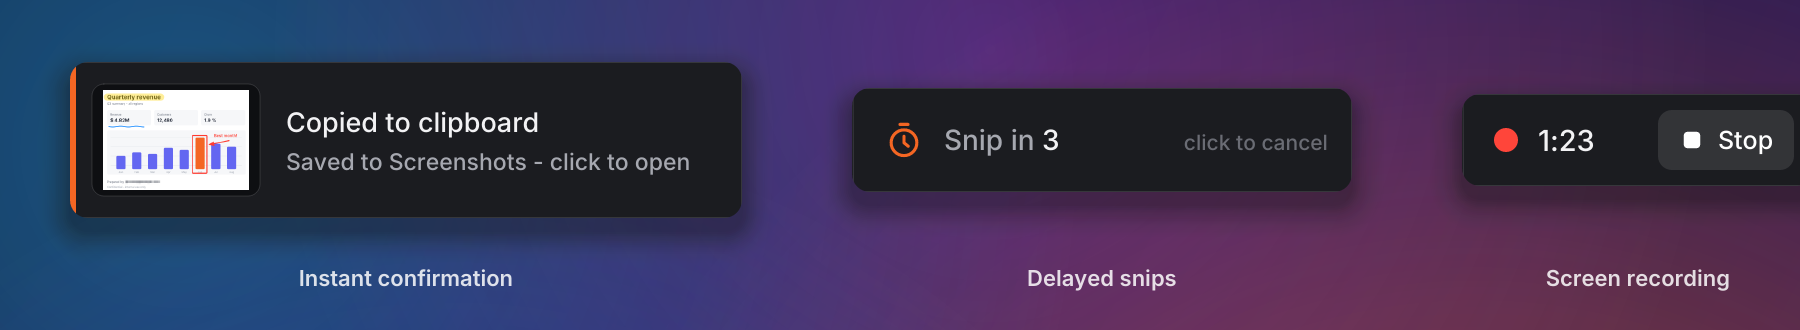
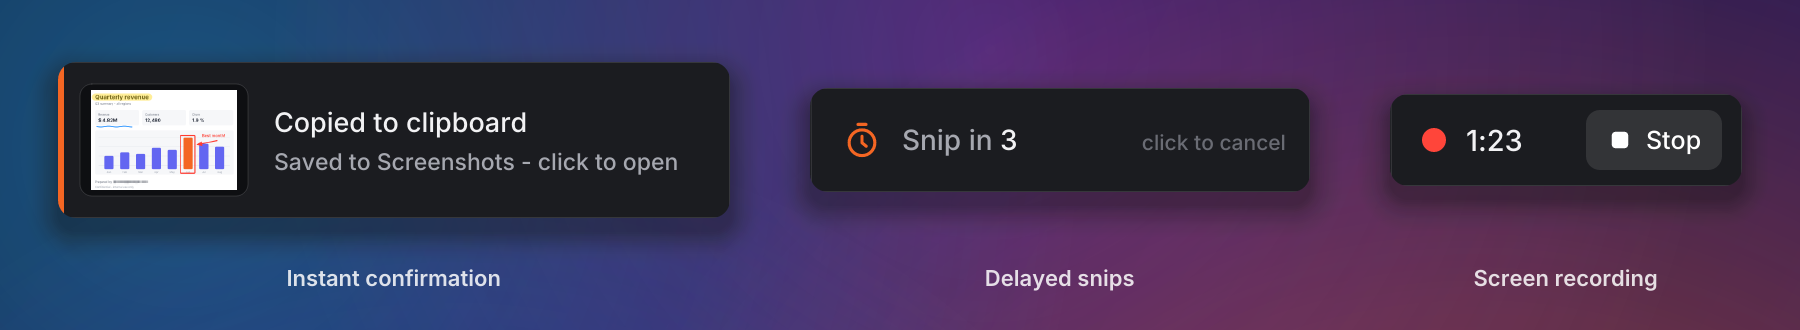
Fix shutdown after a cancelled save dialog; keep captures exact across resizes
- Deliver finished snips from about_to_wait instead of from inside the
  window-event callback. Opening the native save dialog there left the
  event loop unable to exit, so a one-shot `krab` stayed alive after the
  dialog was cancelled.
- Keep the original capture when the surface size differs from it, and
  resample from that instead of from the previous resample, so a window
  that is briefly the wrong size can no longer degrade the screenshot.
- Take the pointer position from the button message itself on Windows.
- Build Linux on Ubuntu 24.04: the PipeWire headers on 22.04 are too old
  for the bindings used by the capture backend.
- Centre the status row in the generated README image.

diff --git a/src/overlay/render.rs b/src/overlay/render.rs
@@ -34,32 +34,47 @@ fn mix(a: u32, b: u32, t: u32) -> u32 {
 
 impl Overlay {
     /// Adapt to a surface whose size differs from the captured image (rare:
-    /// fractional scaling on some compositors).
+    /// fractional scaling on some compositors, or a window that is still
+    /// settling into full screen). The capture itself is never degraded: the
+    /// original pixels are kept and every size is resampled from them, so the
+    /// overlay is pixel-exact again as soon as the sizes match.
     fn ensure_size(&mut self, w: u32, h: u32) {
         if (w, h) == (self.w, self.h) {
             return;
         }
-        let (ow, oh) = (self.w, self.h);
-        let mut px = Vec::with_capacity((w * h) as usize);
-        for y in 0..h {
-            let sy = (y as u64 * oh as u64 / h as u64) as u32;
-            let row = (sy * ow) as usize;
-            for x in 0..w {
-                let sx = (x as u64 * ow as u64 / w as u64) as usize;
-                px.push(self.px[row + sx]);
+        let (src, sw, sh) = match self.original.take() {
+            Some(original) => original,
+            None => (std::mem::take(&mut self.px), self.w, self.h),
+        };
+        if (w, h) == (sw, sh) {
+            self.px = src;
+        } else {
+            let mut px = Vec::with_capacity((w * h) as usize);
+            for y in 0..h {
+                let sy = (y as u64 * sh as u64 / h as u64) as u32;
+                let row = (sy * sw) as usize;
+                for x in 0..w {
+                    let sx = (x as u64 * sw as u64 / w as u64) as usize;
+                    px.push(src[row + sx]);
+                }
             }
+            self.px = px;
+            self.original = Some((src, sw, sh));
         }
-        let (kx, ky) = (w as f32 / ow as f32, h as f32 / oh as f32);
-        for r in &mut self.windows {
-            *r = RectF::new(
-                r.x as f32 * kx,
-                r.y as f32 * ky,
-                r.w as f32 * kx,
-                r.h as f32 * ky,
-            )
-            .round();
-        }
-        self.px = px;
+        let (kx, ky) = (w as f32 / sw as f32, h as f32 / sh as f32);
+        self.windows = self
+            .captured_windows
+            .iter()
+            .map(|r| {
+                RectF::new(
+                    r.x as f32 * kx,
+                    r.y as f32 * ky,
+                    r.w as f32 * kx,
+                    r.h as f32 * ky,
+                )
+                .round()
+            })
+            .collect();
         self.w = w;
         self.h = h;
         self.clear_selection();

diff --git a/src/app.rs b/src/app.rs
@@ -123,6 +123,8 @@ pub struct App {
     recorder: Option<Recorder>,
     /// Background jobs (text extraction) still running.
     busy: usize,
+    /// A finished snip waiting to be copied / saved.
+    pending: Option<(Finish, Image)>,
     last_monitor: Option<MonitorHandle>,
     /// Testing aid: when to cancel the open overlay automatically.
     session_deadline: Option<Instant>,
@@ -162,6 +164,7 @@ pub fn run(cfg: Config, launch: Launch) -> Result<(), String> {
         settle: None,
         recorder: None,
         busy: 0,
+        pending: None,
         last_monitor: None,
         session_deadline: None,
         started: false,
@@ -313,6 +316,7 @@ impl App {
             && self.settle.is_none()
             && self.recorder.is_none()
             && self.busy == 0
+            && self.pending.is_none()
     }
 
     /// Make sure a hidden overlay window exists for every connected monitor.
@@ -551,7 +555,10 @@ impl App {
             Outcome::Cancel => self.close_session(),
             Outcome::Finish(kind, img) => {
                 self.close_session();
-                self.deliver(el, kind, img);
+                // Delivered from `about_to_wait`: showing a native dialog (a
+                // nested message loop) from inside a window-event callback
+                // leaves the event loop unable to shut down afterwards.
+                self.pending = Some((kind, img));
             }
             Outcome::Delay(secs) => {
                 let shared = self.session.as_ref().map(|s| s.wins[idx].overlay.shared());
@@ -1233,6 +1240,9 @@ impl ApplicationHandler<UserEvent> for App {
     }
 
     fn about_to_wait(&mut self, el: &ActiveEventLoop) {
+        if let Some((kind, img)) = self.pending.take() {
+            self.deliver(el, kind, img);
+        }
         self.tick(el);
         if !self.launch.daemon && self.idle() {
             el.exit();

diff --git a/examples/gen_assets.rs b/examples/gen_assets.rs
@@ -521,23 +521,32 @@ fn scene_huds(snip: &krab::output::Image) -> (Vec<u32>, u32, u32) {
         thumb: Some(hud::thumbnail(snip, 320, 220)),
         action: None,
     };
-    let (tw, _) = draw_hud(&mut c, &toast, 70.0, 62.0, s, false);
-    caption(&mut c, "Instant confirmation", 70.0 + tw / 2.0);
-
     let countdown = Hud::Countdown {
         deadline: Instant::now() + Duration::from_millis(2600),
     };
-    let cx = 70.0 + tw + 110.0;
-    let (cw, _) = draw_hud(&mut c, &countdown, cx, 88.0, s, false);
-    caption(&mut c, "Delayed snips", cx + cw / 2.0);
-
     let recording = Hud::Recording {
         started: Instant::now() - Duration::from_secs(83),
         saving: false,
     };
-    let rx = cx + cw + 110.0;
-    let (rw, _) = draw_hud(&mut c, &recording, rx, 94.0, s, false);
-    caption(&mut c, "Screen recording", rx + rw / 2.0);
+    // Lay the three surfaces out as one centred row.
+    let gap = 80.0;
+    let widths = [
+        toast.size().0 * s,
+        countdown.size().0 * s,
+        recording.size().0 * s,
+    ];
+    let mut x = (w as f32 - widths.iter().sum::<f32>() - 2.0 * gap) / 2.0;
+    let row_mid = 140.0;
+    for (hud, label) in [
+        (&toast, "Instant confirmation"),
+        (&countdown, "Delayed snips"),
+        (&recording, "Screen recording"),
+    ] {
+        let y = row_mid - hud.size().1 * s / 2.0;
+        let (hw, _) = draw_hud(&mut c, hud, x.round(), y.round(), s, false);
+        caption(&mut c, label, x + hw / 2.0);
+        x += hw + gap;
+    }
     (px, w, h)
 }
 

diff --git a/src/overlay/tests.rs b/src/overlay/tests.rs
@@ -572,3 +572,30 @@ fn shot_clone(s: &Shot) -> Shot {
         name: s.name.clone(),
     }
 }
+
+#[test]
+fn a_temporary_size_mismatch_does_not_degrade_the_capture() {
+    let wins = [WinInfo {
+        rect: RectI::new(100, 80, 120, 90),
+        title: "w".into(),
+    }];
+    let shared = Shared {
+        mode: Mode::Window,
+        kind: Kind::Snip,
+        delay: 3,
+    };
+    let mut o = Overlay::new(shot(), &wins, Options::default(), shared);
+    // First frame arrives while the window is still small...
+    let mut small = vec![0u32; 500 * 400];
+    o.render(&mut small, 500, 400);
+    assert_eq!(o.size(), (500, 400));
+    // ...then it reaches its real size: pixels and window rects are exact again.
+    let mut full = vec![0u32; (W * H) as usize];
+    o.render(&mut full, W, H);
+    assert_eq!(o.size(), (W, H));
+    click(&mut o, (150.0, 100.0));
+    assert_eq!(o.selection(), Some(RectI::new(100, 80, 120, 90)));
+    let img = o.compose().unwrap();
+    assert_eq!(pixel(&img, 0, 0), [0, 100, 80, 255]);
+    assert_eq!(pixel(&img, 119, 89), [0, 219, 169, 255]);
+}

diff --git a/src/overlay/mod.rs b/src/overlay/mod.rs
@@ -210,13 +210,18 @@ struct TextEdit {
 }
 
 pub struct Overlay {
+    /// The screenshot at the size it is displayed at.
     px: Vec<u32>,
     w: u32,
     h: u32,
+    /// The capture as taken, kept only while `px` is a resampled copy.
+    original: Option<(Vec<u32>, u32, u32)>,
     scale: f32,
     opts: Options,
     /// Window rects in local pixels, top-most first.
     windows: Vec<RectI>,
+    /// The same rects at capture resolution.
+    captured_windows: Vec<RectI>,
     ui: Shared,
 
     sel: Option<Selection>,
@@ -260,7 +265,9 @@ impl Overlay {
             h: shot.h,
             scale: shot.scale.max(0.5),
             px: shot.px,
+            original: None,
             opts,
+            captured_windows: local.clone(),
             windows: local,
             ui: shared,
             sel: None,
